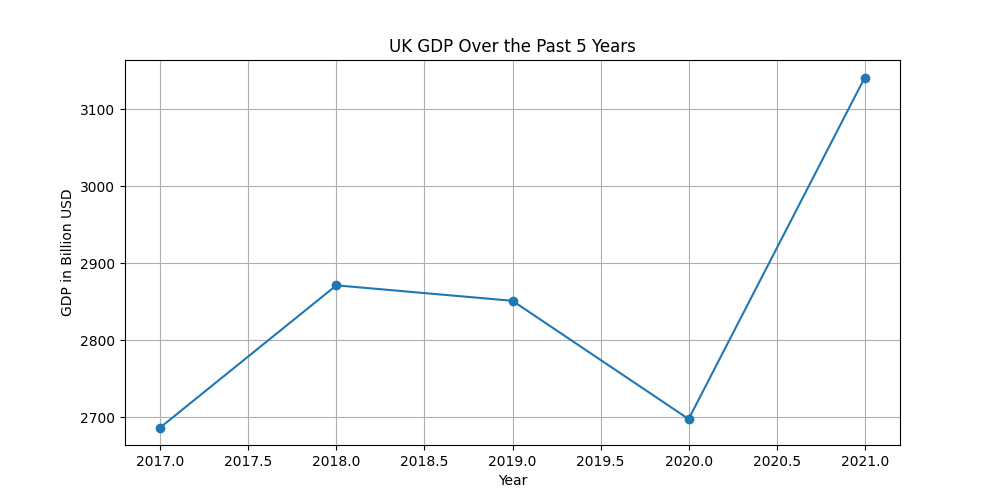
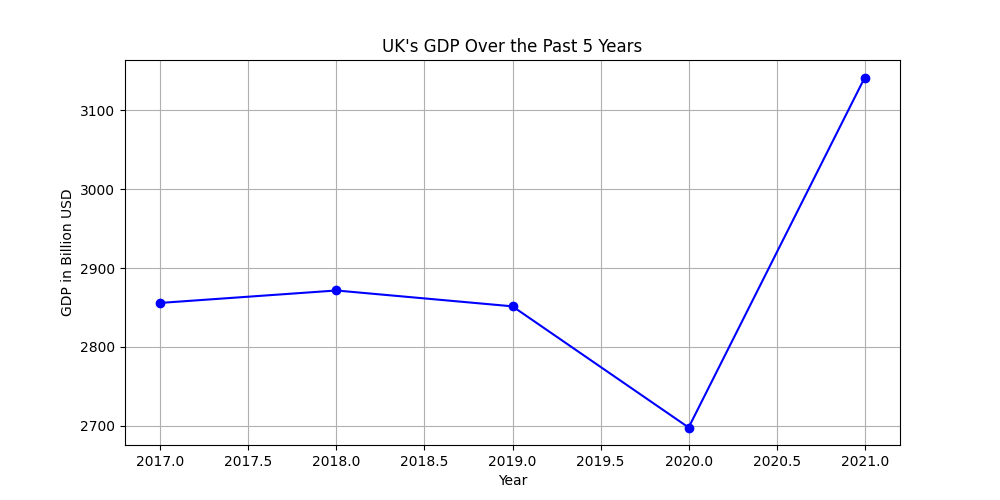
add AI coders

diff --git a/scratch/multi_agent/coding.py b/scratch/multi_agent/coding.py
@@ -413,5 +413,30 @@ messages = [Message(role="system", content="You are a coding agent, you first wr
 
 send_prompt(messages, "the problem is Given an array of integers nums and an integer target, return indices of the two numbers such that they add up to target. You may assume that each input would have exactly one solution, and you may not use the same element twice.You can return the answer in any order.")
 
-for index, message in enumerate(messages):
-    print(index, message, type(message))
+# for index, message in enumerate(messages):
+#     print(index, message, type(message))
+
+
+def save_messages_to_json(messages, filename="coding_messages.json"):
+    # Create a list to store the formatted messages
+    formatted_messages = []
+
+    for index, message in enumerate(messages):
+        # Print the message info
+        print(index, message, type(message))
+
+        # Format the message for JSON
+        formatted_message = {
+            "index": index,
+            "message": str(message),  # Convert message to string in case it's not serializable
+            "type": str(type(message))  # Convert type to string for JSON serialization
+        }
+        formatted_messages.append(formatted_message)
+
+    # Save the formatted messages to a JSON file
+    with open(filename, 'w') as f:
+        json.dump(formatted_messages, f, indent=2)
+
+    print(f"Messages saved to {filename}")
+
+save_messages_to_json(messages, filename="coding_messages.json")

diff --git a/scratch/multi_agent/research_plot.py b/scratch/multi_agent/research_plot.py
@@ -416,5 +416,29 @@ If you need to look up some information before asking a follow up question, you 
 
 send_prompt(messages, "Fetch the UK's GDP over the past 5 years, then write python script to draw a line graph of it and save the image to the current folder. And then run the python script.")
 
-for index, message in enumerate(messages):
-    print(index, message, type(message))
+# for index, message in enumerate(messages):
+#     print(index, message, type(message))
+
+def save_messages_to_json(messages, filename="research_plot_messages.json"):
+    # Create a list to store the formatted messages
+    formatted_messages = []
+
+    for index, message in enumerate(messages):
+        # Print the message info
+        print(index, message, type(message))
+
+        # Format the message for JSON
+        formatted_message = {
+            "index": index,
+            "message": str(message),  # Convert message to string in case it's not serializable
+            "type": str(type(message))  # Convert type to string for JSON serialization
+        }
+        formatted_messages.append(formatted_message)
+
+    # Save the formatted messages to a JSON file
+    with open(filename, 'w') as f:
+        json.dump(formatted_messages, f, indent=2)
+
+    print(f"Messages saved to {filename}")
+
+save_messages_to_json(messages, filename="research_plot_messages.json")

diff --git a/scratch/multi_agent/uk_gdp_script.py b/scratch/multi_agent/uk_gdp_script.py
@@ -1,18 +1,17 @@
 import matplotlib.pyplot as plt
 
-# UK GDP data for the past 5 years (in billion USD)
-gdp_years = [2021, 2020, 2019, 2018, 2017]
-gdp_values = [3141.51, 2697.81, 2851.41, 2871.51, 2686.83]
+# Data for UK's GDP over the past 5 years
+years = [2017, 2018, 2019, 2020, 2021]
+gdp = [2855.74, 2871.51, 2851.41, 2697.81, 3141.51]
 
-def plot_gdp(years, values):
-    plt.figure(figsize=(10, 5))
-    plt.plot(years, values, marker='o')
-    plt.title('UK GDP Over the Past 5 Years')
-    plt.xlabel('Year')
-    plt.ylabel('GDP in Billion USD')
-    plt.grid(True)
-    plt.savefig('uk_gdp.png')
-    plt.show()
+# Create the line graph
+plt.figure(figsize=(10, 5))
+plt.plot(years, gdp, marker='o', linestyle='-', color='b')
+plt.title("UK's GDP Over the Past 5 Years")
+plt.xlabel("Year")
+plt.ylabel("GDP in Billion USD")
+plt.grid(True)
 
-if __name__ == '__main__':
-    plot_gdp(gdp_years, gdp_values)
+# Save the plot as an image
+plt.savefig("./uk_gdp.png")
+plt.close()

diff --git a/scratch/multi_agent/test_two_sum.py b/scratch/multi_agent/test_two_sum.py
@@ -1,26 +1,11 @@
 import unittest
+from two_sum import two_sum
 
 class TestTwoSum(unittest.TestCase):
-    def test_example(self):
+    def test_two_sum(self):
         self.assertEqual(two_sum([2, 7, 11, 15], 9), [0, 1])
-    
-    def test_another_case(self):
         self.assertEqual(two_sum([3, 2, 4], 6), [1, 2])
-    
-    def test_negatives(self):
-        self.assertEqual(two_sum([-1, -2, -3, -4, -5], -8), [2, 4])
-    
-    def test_large_numbers(self):
-        self.assertEqual(two_sum([2**30, 2**30 + 1], 2 * 2**30 + 1), [0, 1])
+        self.assertEqual(two_sum([3, 3], 6), [0, 1])
 
 if __name__ == '__main__':
     unittest.main()
-
-def two_sum(nums, target):
-    complement_map = {}
-    for index, number in enumerate(nums):
-        complement = target - number
-        if complement in complement_map:
-            return [complement_map[complement], index]
-        complement_map[number] = index
-    raise ValueError("No two sum solution")

diff --git a/scratch/multi_agent/two_sum.py b/scratch/multi_agent/two_sum.py
@@ -1,13 +1,7 @@
 def two_sum(nums, target):
-    complement_map = {}
-    for index, number in enumerate(nums):
-        complement = target - number
-        if complement in complement_map:
-            return [complement_map[complement], index]
-        complement_map[number] = index
-    raise ValueError("No two sum solution")
-
-# Example usage:
-nums = [2, 7, 11, 15]
-target = 9
-print(two_sum(nums, target))  # Output: [0, 1]
+    hash_map = {}
+    for idx, num in enumerate(nums):
+        complement = target - num
+        if complement in hash_map:
+            return [hash_map[complement], idx]
+        hash_map[num] = idx

diff --git a/scratch/multi_agent/gdp_line_graph.py b/scratch/multi_agent/gdp_line_graph.py
@@ -1,0 +1,17 @@
+import matplotlib.pyplot as plt
+
+# Data
+years = [2017, 2018, 2019, 2020, 2021]
+gdp_values = [2644.81, 2871.71, 2851.41, 2697.81, 3141.51]
+
+# Plotting the data
+plt.figure(figsize=(10,5))
+plt.plot(years, gdp_values, marker='o')
+plt.title('UK GDP Over the Past 5 Years')
+plt.xlabel('Year')
+plt.ylabel('GDP (in Billion $)')
+plt.grid(True)
+
+# Save the plot
+plt.savefig('uk_gdp_past_5_years.png')
+plt.show()
